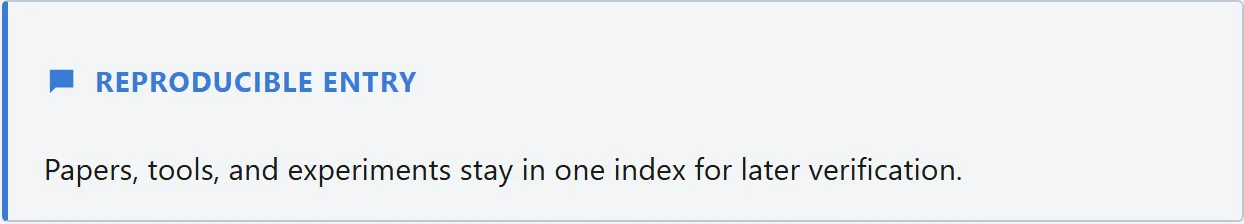
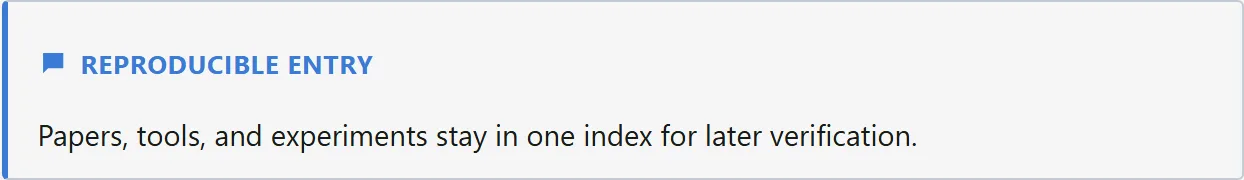
fix(ui): tighten callout/timeline/publication spacing, fix timeline dot alignment and font, align publication index with meta, and put action buttons in single row

Changed region(s): [[0.0305, 0.6944, 0.7942, 0.8333], [0.0305, 0.2778, 0.336, 0.4167], [0.0, 0.9722, 1.0, 1.0]]

diff --git a/src/styles/global.css b/src/styles/global.css
@@ -1548,17 +1548,17 @@ a.editorial-item:focus-visible .editorial-item-content {
   font-size: 0.875rem;
   text-align: center;
 }
-/* P0 杂志风注记卡片：无 JS、语义 aside、主题语义色驱动 */
+/* P0 杂志风注记卡片：无 JS、语义 aside、紧凑内边距与精致版式 */
 .markdown-body > .callout {
   --callout-accent: var(--accent);
   max-width: 72ch;
-  margin: 1.5em 0;
-  padding: 0.85rem 1.15rem;
-  border: 1px solid color-mix(in srgb, var(--callout-accent) 22%, var(--border));
+  margin: 1.15em 0;
+  padding: 0.6rem 0.95rem 0.65rem;
+  border: 1px solid color-mix(in srgb, var(--callout-accent) 20%, var(--border));
   border-left: 3.5px solid var(--callout-accent);
   border-radius: var(--radius-md);
-  background: color-mix(in srgb, var(--callout-accent) 6%, var(--card));
-  box-shadow: 0 1px 3px rgba(0, 0, 0, 0.04);
+  background: color-mix(in srgb, var(--callout-accent) 5%, var(--card));
+  box-shadow: 0 1px 2px rgba(0, 0, 0, 0.03);
   transition:
     transform 0.2s cubic-bezier(0.16, 1, 0.3, 1),
     border-color 0.2s ease,
@@ -1566,8 +1566,8 @@ a.editorial-item:focus-visible .editorial-item-content {
 }
 .markdown-body > .callout:hover {
   transform: translateY(-1px);
-  box-shadow: 0 4px 12px rgba(0, 0, 0, 0.06);
-  border-color: color-mix(in srgb, var(--callout-accent) 40%, var(--border));
+  box-shadow: 0 3px 10px rgba(0, 0, 0, 0.05);
+  border-color: color-mix(in srgb, var(--callout-accent) 35%, var(--border));
 }
 .markdown-body .callout-tip { --callout-accent: var(--success); }
 .markdown-body .callout-warning { --callout-accent: var(--warning); }
@@ -1579,14 +1579,15 @@ a.editorial-item:focus-visible .editorial-item-content {
 .callout-header {
   display: flex;
   align-items: center;
-  gap: 0.5rem;
-  margin-bottom: 0.35rem;
+  gap: 0.4rem;
+  margin: 0 0 0.2rem;
   color: var(--callout-accent);
+  line-height: 1.25;
 }
 .callout-icon {
   display: inline-flex;
-  width: 1.1rem;
-  height: 1.1rem;
+  width: 0.95rem;
+  height: 0.95rem;
   flex: 0 0 auto;
 }
 .callout-icon svg {
@@ -1596,21 +1597,22 @@ a.editorial-item:focus-visible .editorial-item-content {
 .callout-title {
   margin: 0;
   color: inherit;
-  font-size: 0.88rem;
-  font-weight: 700;
+  font-size: 0.8rem;
+  font-weight: 750;
   letter-spacing: 0.04em;
   text-transform: uppercase;
+  line-height: 1.25;
 }
 .callout > p:not(.callout-title):not(.callout-source) {
-  margin: 0.35rem 0 0;
-  font-size: 0.95rem;
-  line-height: 1.6;
+  margin: 0.15rem 0 0;
+  font-size: 0.91rem;
+  line-height: 1.55;
   color: var(--text);
 }
 .callout-source {
-  margin: 0.6rem 0 0;
+  margin: 0.35rem 0 0;
   color: var(--text-muted);
-  font-size: 0.8rem;
+  font-size: 0.78rem;
   text-align: right;
 }
 

diff --git a/src/lib/publications.ts b/src/lib/publications.ts
@@ -235,19 +235,26 @@ export function renderPublications(
     const note = item.note ? resolveText(item.note, lang, defaultLang) : '';
     const badges = (item.badges ?? []).map((b) => `<span class="publication-badge">${esc(b)}</span>`).join('');
     const links = item.links ?? {};
-    const linkRow = [
+    const linkItems = [
       linkHtml('PDF', safeUrl(links.pdf, options.baseUrl)),
       linkHtml('Code', safeUrl(links.code, options.baseUrl)),
       linkHtml('Project', safeUrl(links.project, options.baseUrl)),
       linkHtml('Slides', safeUrl(links.slides, options.baseUrl)),
       linkHtml('Dataset', safeUrl(links.dataset, options.baseUrl)),
-    ].filter(Boolean).join('');
+    ].filter(Boolean);
+    const bibtexId = `bibtex-${esc(item.id)}`;
+    const copyBtn = item.bibtex
+      ? `<button type="button" class="publication-copy" data-copy-bibtex="${bibtexId}">${copyLabel}</button>`
+      : '';
+    const hasActions = linkItems.length > 0 || copyBtn;
+    const actionsRow = hasActions
+      ? `<div class="publication-actions"><nav class="publication-links" aria-label="publication links">${linkItems.join('')}</nav>${copyBtn}</div>`
+      : '';
+    const bibtexBlock = item.bibtex
+      ? `<div class="publication-bibtex"><pre id="${bibtexId}" tabindex="0" data-pagefind-ignore>${esc(item.bibtex)}</pre></div>`
+      : '';
     const teaser = item.teaser
       ? `<picture class="publication-teaser"><img src="${esc(withBase(`/${item.teaser}`, options.baseUrl))}" alt="${esc(item.title)} figure" loading="lazy" decoding="async" sizes="(max-width: 768px) 100vw, 220px"></picture>`
-      : '';
-    const bibtexId = `bibtex-${esc(item.id)}`;
-    const bibtex = item.bibtex
-      ? `<div class="publication-bibtex"><button type="button" class="publication-copy" data-copy-bibtex="${bibtexId}">${copyLabel}</button><pre id="${bibtexId}" tabindex="0" data-pagefind-ignore>${esc(item.bibtex)}</pre></div>`
       : '';
     return `<article class="publication-item"${item.teaser ? ' data-has-teaser="true"' : ''}>
       <div class="publication-index">${String(index + 1).padStart(2, '0')}</div>
@@ -257,8 +264,8 @@ export function renderPublications(
         <p class="publication-authors">${authorsHtml(item, highlights)}</p>
         ${note ? `<p class="publication-note">${esc(note)}</p>` : ''}
         ${abstract ? `<details class="publication-abstract"><summary>${abstractLabel}</summary><div class="abstract-content"><p>${esc(abstract)}</p></div></details>` : ''}
-        ${linkRow ? `<nav class="publication-links" aria-label="publication links">${linkRow}</nav>` : ''}
-        ${bibtex}
+        ${actionsRow}
+        ${bibtexBlock}
       </div>
       ${teaser}
     </article>`;
